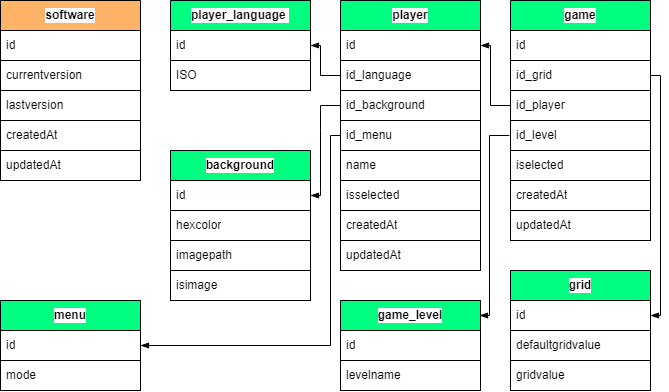
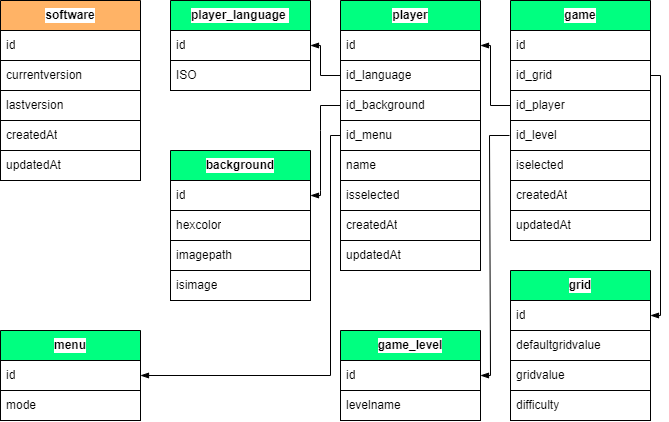
Feat Grid : Adds the difficulty field : -Model Grid Byte difficulty (min 0, max 100) -Flyway migration (create base) -GridDto -MCD + MPD

diff --git a/src/main/java/fr/softsf/sudokufx/dto/GridDto.java b/src/main/java/fr/softsf/sudokufx/dto/GridDto.java
@@ -1,5 +1,7 @@
 package fr.softsf.sudokufx.dto;
 
+import jakarta.validation.constraints.Max;
+import jakarta.validation.constraints.Min;
 import jakarta.validation.constraints.NotNull;
 import jakarta.validation.constraints.Size;
 
@@ -10,6 +12,10 @@ public record GridDto(
         String defaultgridvalue,
         @NotNull
         @Size(max = 162)
-        String gridvalue
+        String gridvalue,
+        @NotNull
+        @Min(0)
+        @Max(100)
+        Byte difficulty
 ) {
 }

diff --git a/src/main/java/fr/softsf/sudokufx/model/Grid.java b/src/main/java/fr/softsf/sudokufx/model/Grid.java
@@ -1,6 +1,8 @@
 package fr.softsf.sudokufx.model;
 
 import jakarta.persistence.*;
+import jakarta.validation.constraints.Max;
+import jakarta.validation.constraints.Min;
 import jakarta.validation.constraints.NotNull;
 import jakarta.validation.constraints.Size;
 import lombok.*;
@@ -26,5 +28,11 @@ public class Grid {
     @Setter
     @Size(max = 162)
     private String gridvalue;
+
+    @NotNull
+    @Setter
+    @Min(0)
+    @Max(100)
+    private Byte difficulty;
 
 }
